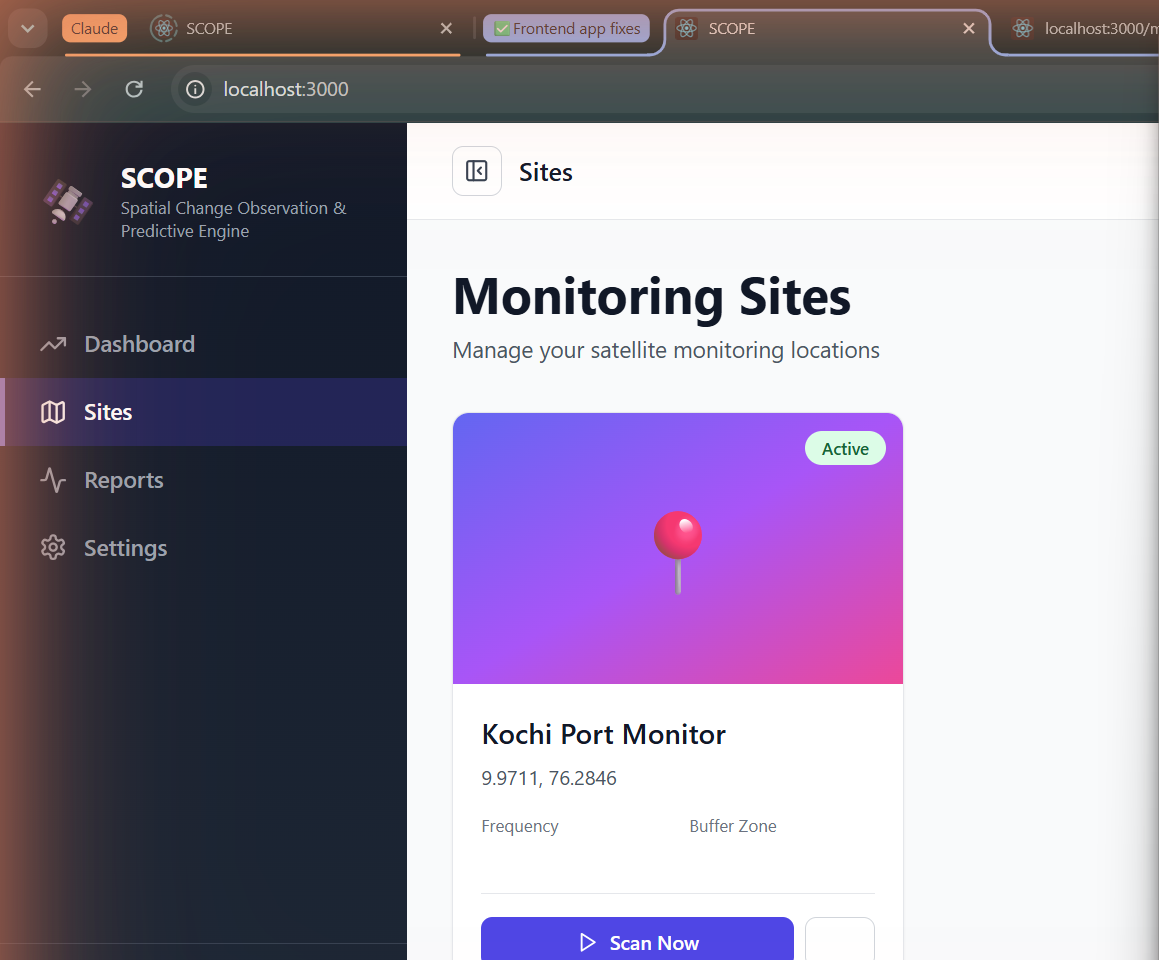
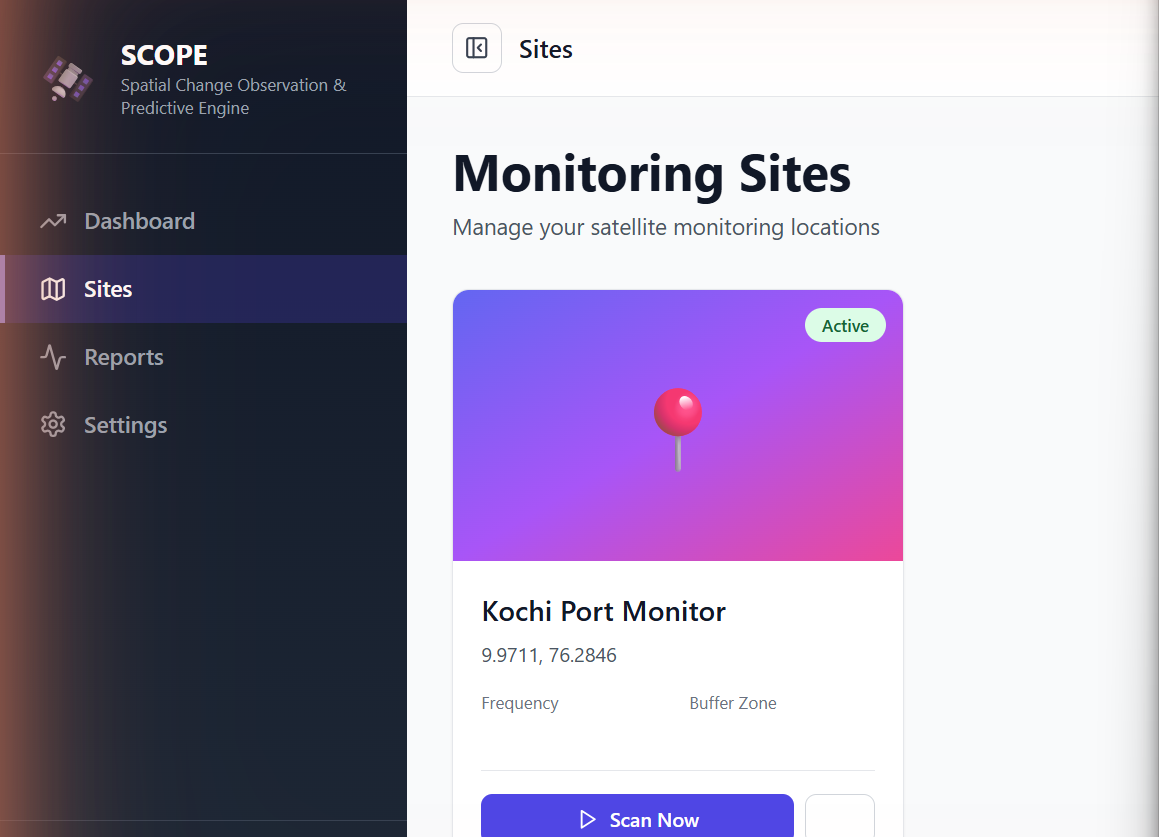
docs: clean app-only GUI screenshots (no browser chrome), add live SAR radar section capture

diff --git a/docs/USER_GUIDE.md b/docs/USER_GUIDE.md
@@ -45,6 +45,10 @@ citing the actual SAR log-ratio and NDWI values from your scan.
   SAR radar** section (baseline/current backscatter + ±3 dB change map).
 - **Export Report** — downloads the full structured report.
 
+![All-weather SAR radar section](gui/gui_sar_radar.png)
+
+*The all-weather radar section: Sentinel-1 backscatter before/after and the ±3 dB log-ratio change map — captured from the running app.*
+
 **Small areas:** if your geofence is under ~0.5 km², the app warns you that
 per-pixel statistics are unreliable and renders imagery with ~3 km of
 surrounding context so the scene stays recognizable.